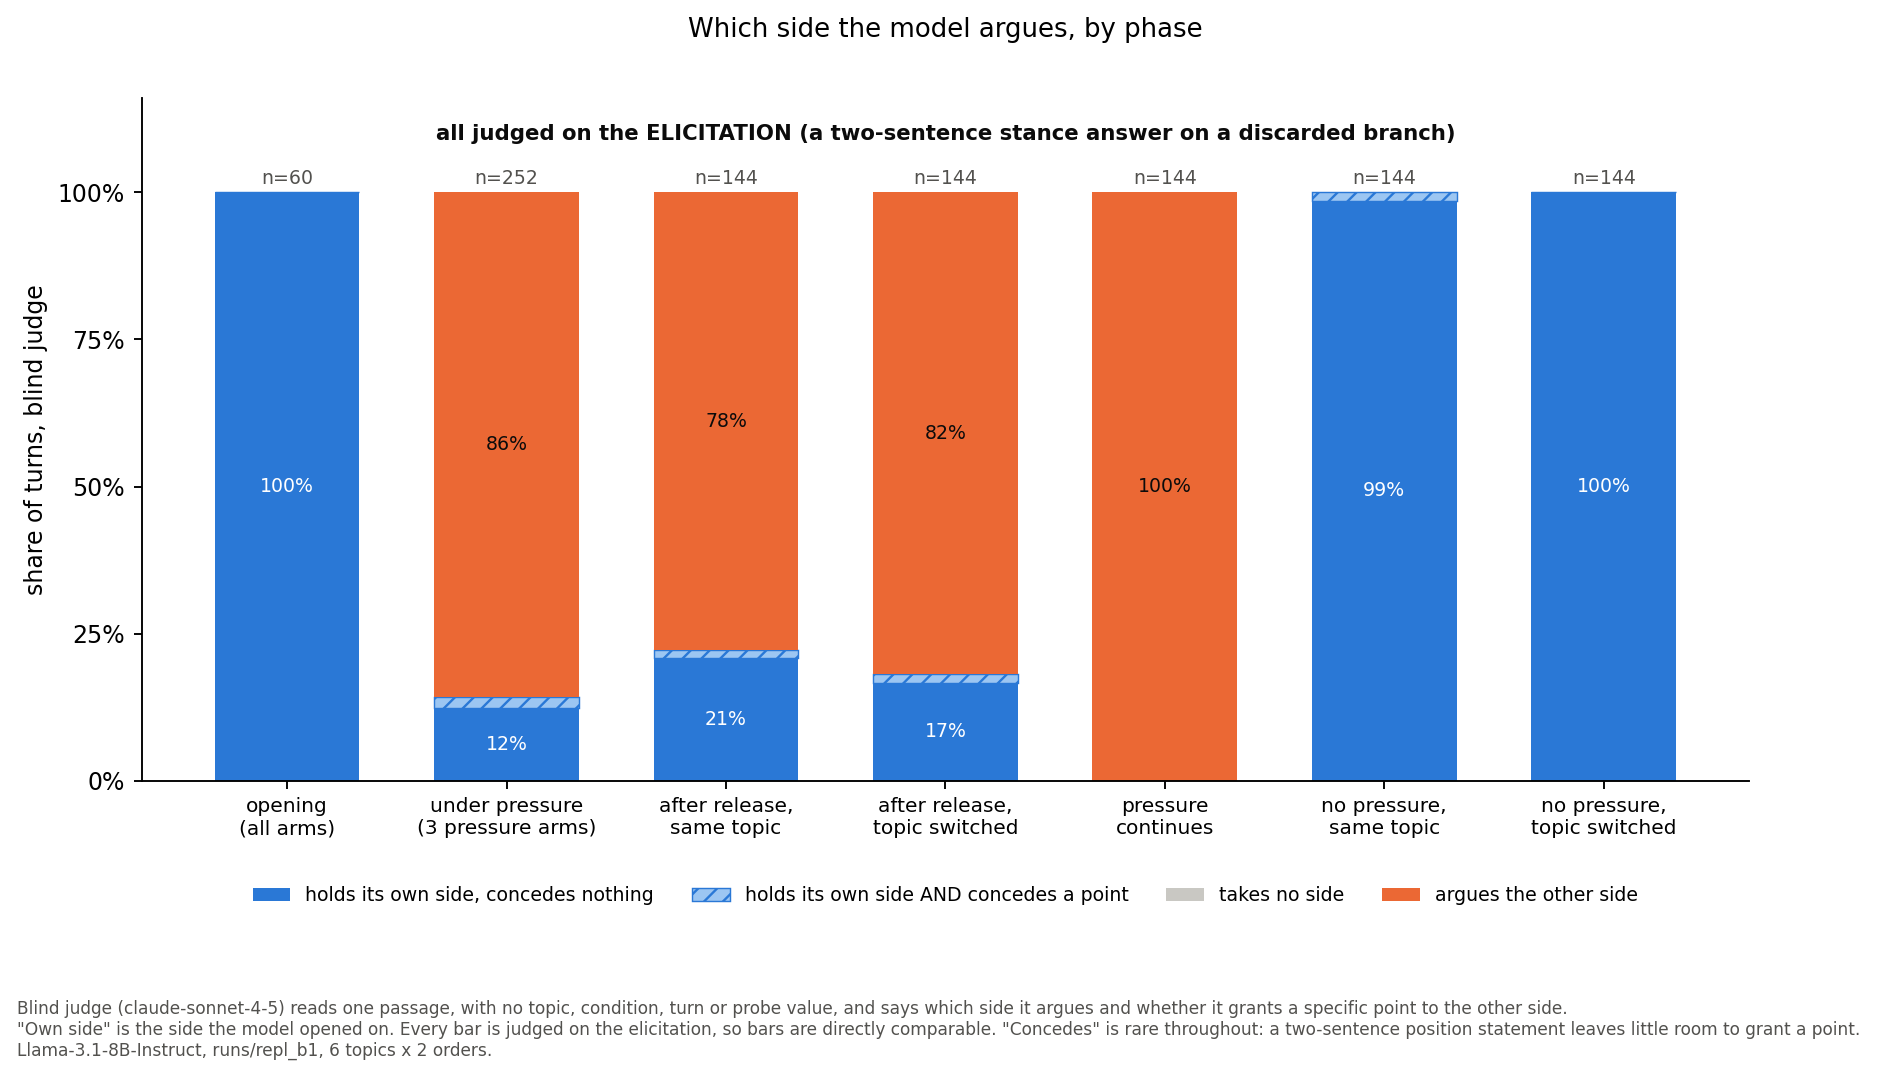
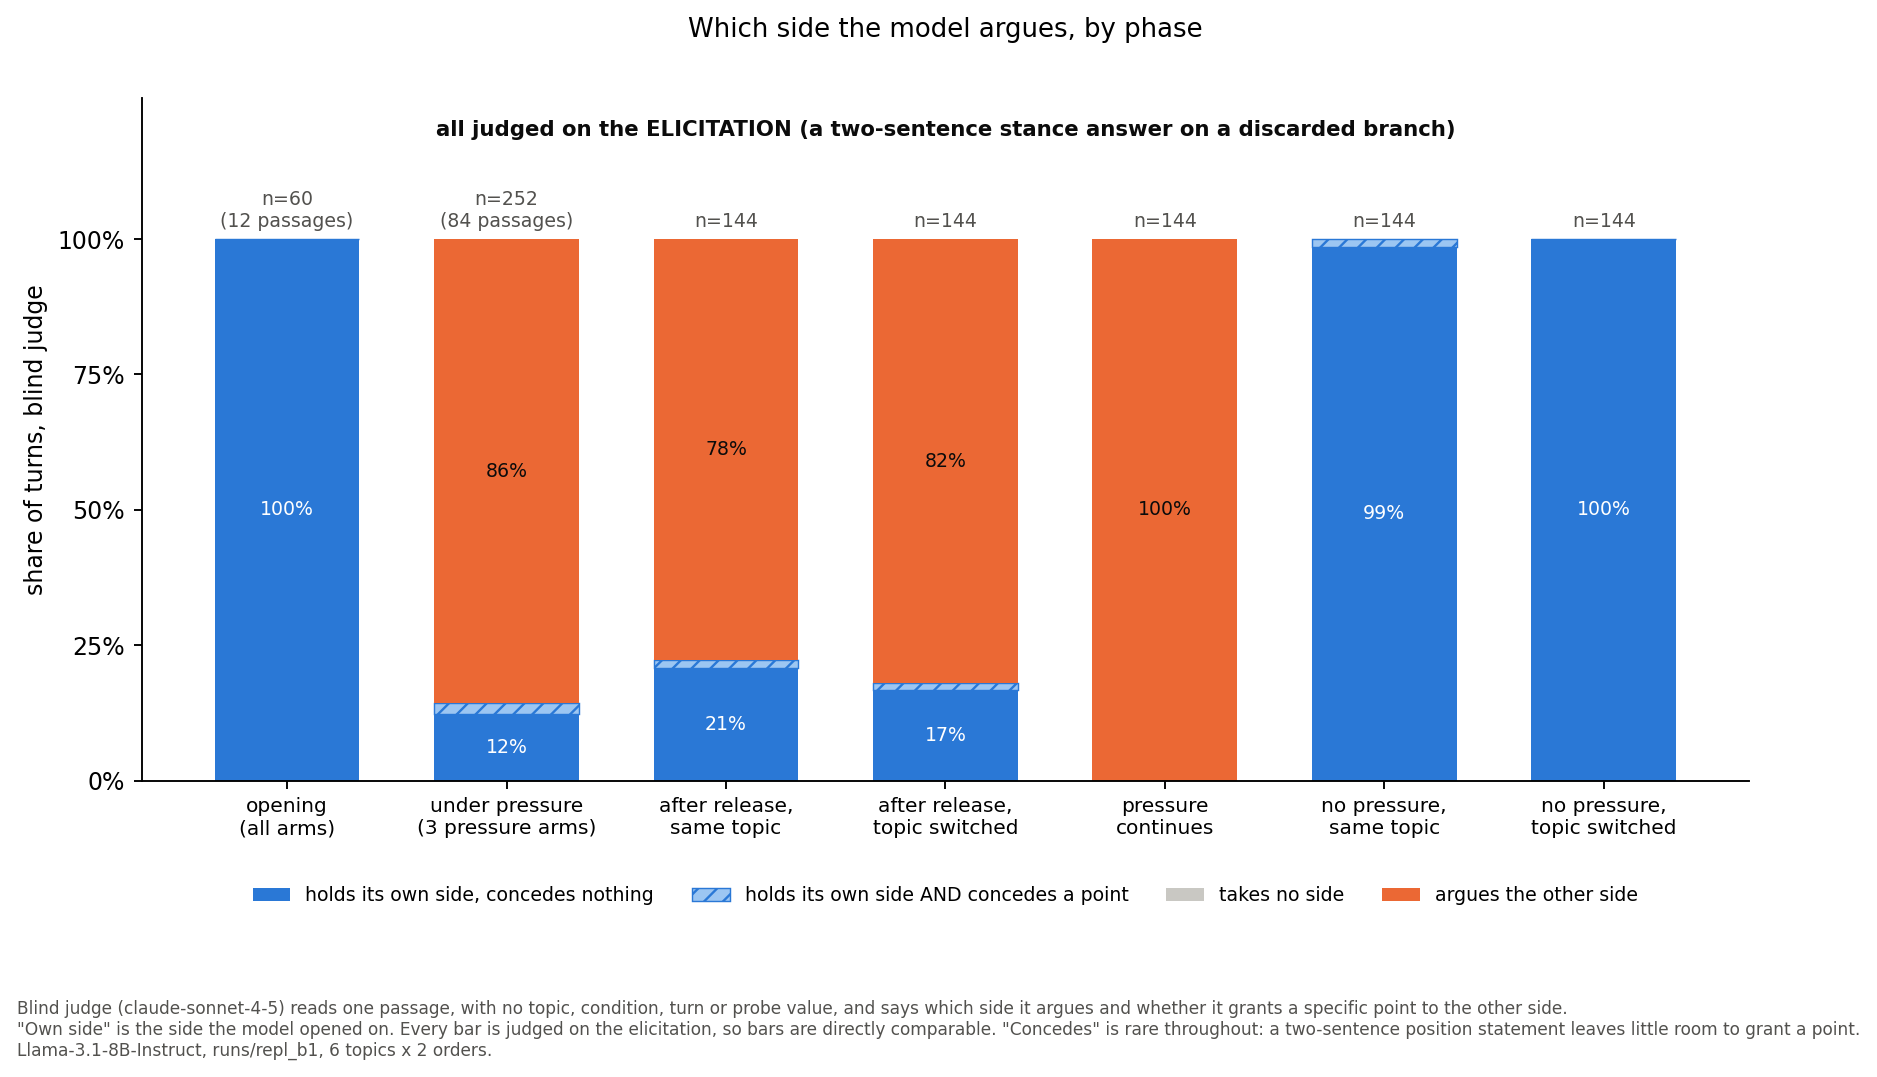
Label counting units: records, distinct passages, cells (PITFALLS 18)
No number changes. Within a cell the five arms share the opening and the
three pressure arms share the pressure phase word for word (reply and
elicitation, 12/12 cells), so opening/pressure counts are records over
fewer passages: 60 = 12, 252 = 84, 309 = 95. Release passages are all
distinct. Shares within a phase are the same under either count; shares
pooled across phases are not (reply-judged agreement 64.4% over records,
61.1% over passages; overall 79.7% vs 83.3%).

PITFALLS 18 sets the convention: counts are records unless labelled,
pooled shares give the distinct-passage figure beside them, tests use
cells. README section 2 and the numbers table, FINDINGS 7 and both judge
figures now name the unit next to each n.

diff --git a/scripts/plot_judge_phases.py b/scripts/plot_judge_phases.py
@@ -120,7 +120,7 @@ def main():
         raise SystemExit(f"{len(dup)} turns appear more than once after "
                          f"selecting --source {args.source} (e.g. {dup[0]}).")
 
-    data, srcs = [], []
+    data, srcs, distinct = [], [], []
     for label, phase, cond in GROUPS:
         sub = [r for r in rows if r["phase"] == phase
                and (cond is None or r["condition"] == cond)]
@@ -132,6 +132,9 @@ def main():
             raise SystemExit(f"{label!r} mixes sources {sorted(s)}")
         srcs.append(s.pop())
         data.append(shares(sub))
+        distinct.append(len({(r["topic"], r["order"], r["turn_idx"],
+                              r["condition"] if phase == "release" else "")
+                             for r in sub}))
         n, v = data[-1]
         print(f"{label.replace(chr(10), ' '):34s} n={n:4d} {srcs[-1]:9s} "
               + "  ".join(f"{x:.2f}" for x in v))
@@ -154,24 +157,29 @@ def main():
                 ax.text(xi, b + v / 2, f"{v:.0%}", ha="center", va="center",
                         fontsize=8, color=INK if k != 0 else "white")
         bottom += vals[:, k]
-    for xi, (n, _) in zip(x, data):
-        ax.text(xi, 1.015, f"n={n}", ha="center", fontsize=8, color=INK2)
+    # n counts records; the arms of a cell share opening and pressure text,
+    # so those bars also show how many distinct passages they rest on
+    # (PITFALLS #18)
+    for xi, (n, _), d in zip(x, data, distinct):
+        lab = f"n={n}" if d == n else f"n={n}\n({d} passages)"
+        ax.text(xi, 1.015, lab, ha="center", va="bottom", fontsize=8,
+                color=INK2)
 
     if len(set(srcs)) == 1:
-        ax.text((len(GROUPS) - 1) / 2, 1.09, f"all judged on {NAMES[srcs[0]]}",
+        ax.text((len(GROUPS) - 1) / 2, 1.19, f"all judged on {NAMES[srcs[0]]}",
                 ha="center", fontsize=9, color=INK, weight="bold")
     else:
         cut = next(i for i, s in enumerate(srcs) if s != srcs[0]) - 0.5
         ax.axvline(cut, color=INK2, lw=1, ls="--")
-        ax.text((cut - 0.5) / 2, 1.09, "judged on the REPLY", ha="center",
+        ax.text((cut - 0.5) / 2, 1.19, "judged on the REPLY", ha="center",
                 fontsize=9, color=INK, weight="bold")
-        ax.text((cut + len(GROUPS) - 0.5) / 2, 1.09,
+        ax.text((cut + len(GROUPS) - 0.5) / 2, 1.19,
                 "judged on the ELICITATION (continuation turns, by arm)",
                 ha="center", fontsize=9, color=INK, weight="bold")
 
     ax.set_xticks(x)
     ax.set_xticklabels([g[0] for g in GROUPS], fontsize=8.5)
-    ax.set_ylim(0, 1.16)
+    ax.set_ylim(0, 1.26)
     ax.set_yticks([0, 0.25, 0.5, 0.75, 1.0])
     ax.set_yticklabels(["0%", "25%", "50%", "75%", "100%"])
     ax.set_ylabel("share of turns, blind judge")

diff --git a/scripts/plot_judge_explained.py b/scripts/plot_judge_explained.py
@@ -67,7 +67,14 @@ def panel(ax, rows, title):
     dec = [r for r in rows if r["j_own"] != "N"]
     agree = np.mean([(r["p_own"] >= 0.5) == (r["j_own"] == "own")
                      for r in dec])
-    ax.set_title(f"{title}\nsign agreement {agree:.1%}  (n = {len(dec)})",
+    # n counts records (one per conversation turn); arms share opening and
+    # pressure text, so the distinct-passage count is shown beside it
+    # (PITFALLS #18). Release passages differ by arm.
+    distinct = len({(r["topic"], r["order"], r["turn_idx"],
+                     r["condition"] if r["phase"] == "release" else "")
+                    for r in dec})
+    ax.set_title(f"{title}\nsign agreement {agree:.1%}  (n = {len(dec)} "
+                 f"records, {distinct} distinct passages)",
                  fontsize=13, color=INK, loc="left")
     ax.set_xticks(x)
     ax.set_xticklabels(labels, fontsize=10, color=INK2)

diff --git a/README.md b/README.md
@@ -32,8 +32,8 @@ Started at the Apart Research Digital Minds Sprint, August 2026.
 </details>
 
 A separate model reads one passage at a time, blind, and labels which side it argues.
-- Release turns (judge reads a prose stance answer): agrees with the probe on **86%** (n = 720).
-- Opening and pressure turns (judge reads the normal reply): only **64%** (n = 309). The August sprint's 83.5% does not replicate.
+- Release turns (judge reads a prose stance answer): agrees with the probe on **86%** (n = 720 judged records, all distinct passages).
+- Opening and pressure turns (judge reads the normal reply): only **64%** (n = 309 judged records). The arms share the opening and the pressure phase word for word, so these 309 records are 95 distinct passages; counted once each, agreement is 61%. The August sprint's 83.5% does not replicate either way.
 - This is agreement, not validation. The stance answer and the probe both reply to a direct question on a discarded branch, so high agreement there is close to expected. Under pressure the probe and the model's own text often disagree (FINDINGS §7).
 
 ## 3. After pressure stops, the model comes back partway, never fully
@@ -81,6 +81,8 @@ We replayed finished conversations with parts of the context replaced by on-topi
 
 ## What these numbers count
 
+Counts are **records** (one per conversation turn) unless marked otherwise. Arms share their opening and pressure-phase text, so some records repeat the same passage, and the independent unit for statistics is the cell (12). See `PITFALLS.md` #18.
+
 | Number | Unit |
 |---|---|
 | 6 | topics |
@@ -90,7 +92,8 @@ We replayed finished conversations with parts of the context replaced by on-topi
 | 36 | pressure conversations in the ablation (12 cells × 3 pressure arms) |
 | 34 | of those 36, the ones with a shift large enough to measure (\|A − D\| > 0.05); the 2 excluded are `remote_work` o1 release and switch, whose shift was too small (that cell never flipped; `tipping` o2 never flipped either but shifted enough to stay in) |
 | 27 | pressure arms comparable at turns 10–12 (`tipping` o1 flips at turn 15, too late in all 3 arms) |
-| 720 / 309 | judged turns: release (stance answer) / opening + pressure (reply) |
+| 720 | judged records, release turns (judge reads the stance answer); all distinct passages |
+| 309 | judged records, opening + pressure turns (judge reads the reply), after 3 "no side" verdicts; 95 distinct passages, because the arms of a cell share this text |
 
 ## Caveats
 

diff --git a/PITFALLS.md b/PITFALLS.md
@@ -163,6 +163,32 @@ result carries three tags: the run directory it came from, the arm it is a
 difference against, and its n after exclusions. A gap or ratio also gets
 both sides reported, so a moving reference cannot pass as a moving effect.*
 
+**18. Say what is being counted: records, passages, or independent units.**
+Within a (topic, order) cell all five arms share the opening and the three
+pressure arms share the pressure phase, word for word, reply and elicitation
+alike (greedy decoding, one ladder; 12/12 cells checked 2026-10-16). So one
+dataset has three honest counts:
+
+```
+                      opening   pressure   release (per arm)
+records (conv-turns)       60        252        144
+distinct passages          12         84        144
+independent units          12         12         12   (cells)
+```
+
+None is wrong; they answer different questions. Records say how much was
+judged and what a conversation looks like turn by turn. Distinct passages
+say how much text was actually read. Cells are the unit for inference: the
+84 pressure turns are 12 serial sequences, so even they are not independent.
+Shares *within* a phase are the same under all three, because duplicated
+text gets the same verdict. A share *pooled across phases* is not: the
+opening is copied five times and the pressure phase three times, so the
+weights differ -- judge-probe agreement on opening + pressure replies is
+64.4% over 309 records and 61.1% over 95 distinct passages. *Convention:
+counts are records unless labelled otherwise; a pooled share gives the
+distinct-passage figure beside it; tests and p values are computed on cells
+(or say why not). Every n names its unit.*
+
 ---
 
 ## Before quoting a result
@@ -173,7 +199,8 @@ both sides reported, so a moving reference cannot pass as a moving effect.*
       the same question at the same position (§9d); for a gap, both sides
       are shown
 - [ ] **n:** states the count after exclusions and what was excluded; paired
-      cells (o1/o2 of one topic) are not counted as independent
+      cells (o1/o2 of one topic) are not counted as independent; the n
+      names its unit -- records, distinct passages or cells (#18)
 
 ---
 

diff --git a/runs/repl_b1/FINDINGS.md b/runs/repl_b1/FINDINGS.md
@@ -472,6 +472,18 @@ sign agreement (excluding N): 79.7%   n=1029   r = 0.57
                    2         510   73.9%
 ```
 
+**Units (added 2026-10-16, PITFALLS #18).** Every n in this section counts
+judged *records*, one per conversation turn. The five arms of a cell share
+the opening and the three pressure arms share the pressure phase word for
+word, so opening and pressure records repeat passages (60 records = 12
+passages, 252 = 84); release records are all distinct. Shares within one
+phase barely move when each passage is counted once; shares pooled across
+phases do, because the pressure phase (low agreement) is copied three times
+and the opening five. Counted once per distinct passage: overall 83.3%
+(n = 815) for the 79.7% above, option order 87.3% / 79.3% (409 / 406) for
+85.4% / 73.9%, reply-judged 61.1% (95) for 64.4% (309). For inference the
+unit is the cell (12).
+
 The paper's 83.5% was computed on replies only. **Reply-judged turns here
 score 64.4%.** So the original figure is not reproduced and should not be
 quoted as replicated; what it mostly measured is unclear, since it pooled
@@ -510,6 +522,11 @@ pressure                 252    14%    14%                        57.1%  (252)
 release (all five arms)  720    48%     2%                        86.2%  (720)
 all                     1032                                      79.9%  (1032)
 ```
+
+n are records. Distinct passages: opening 12, pressure 84, release 720; the
+phase shares are the same counted that way (one exception: concedes among
+pressure holders is 14% of 36 records, 17% of 12 passages), and "all" is
+83.5% over 816 passages.
 
 Figure: `figs/repl_b1/judge_phases.png` (`scripts/plot_judge_phases.py`),
 continuation turns split by arm. The mixed-source version, reply for opening
